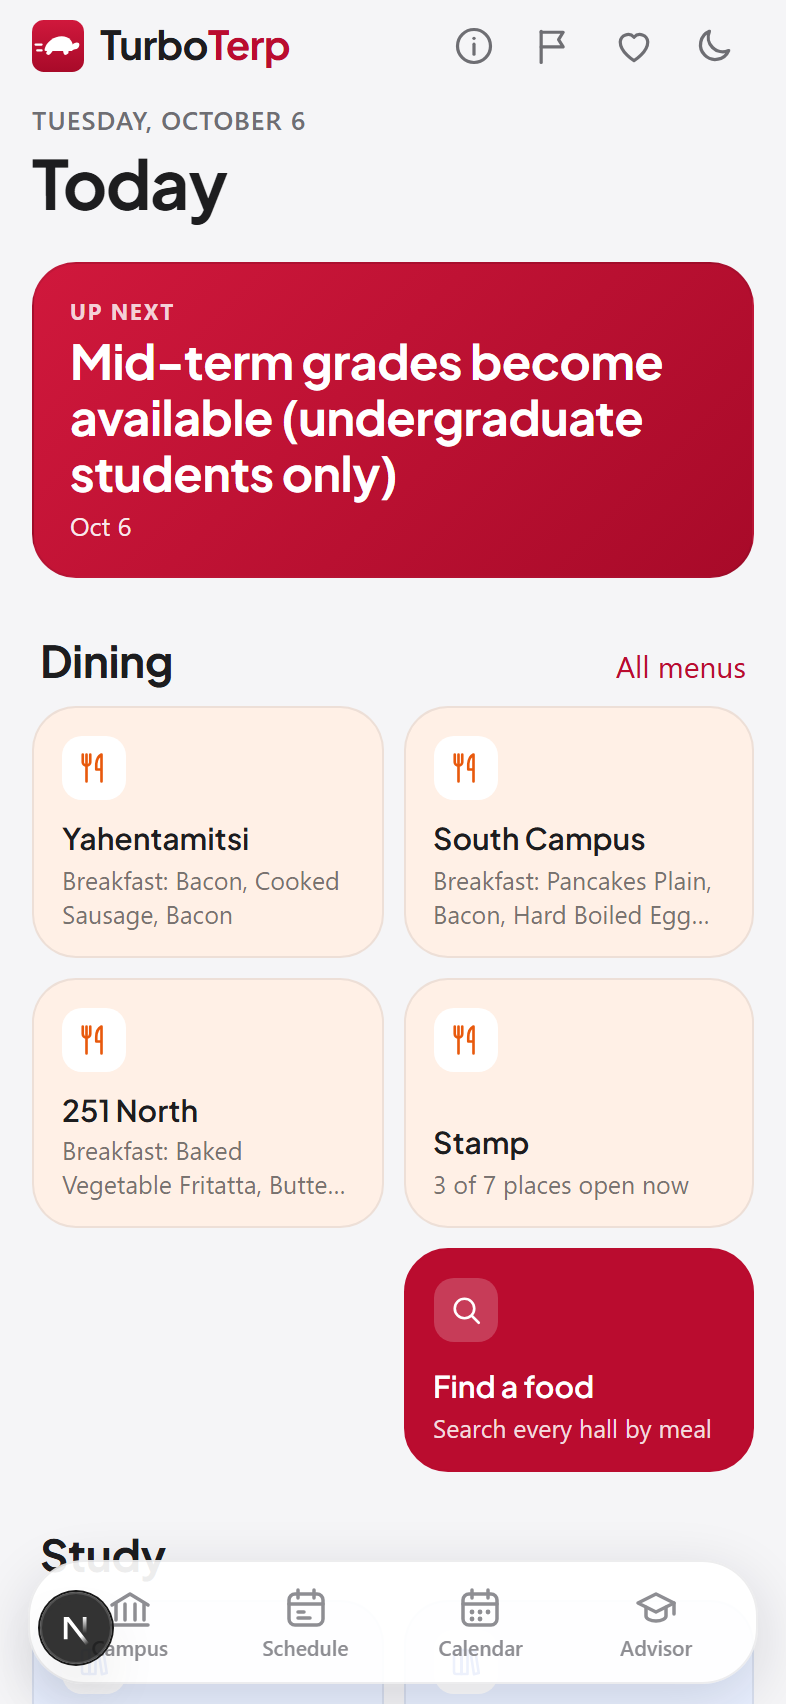
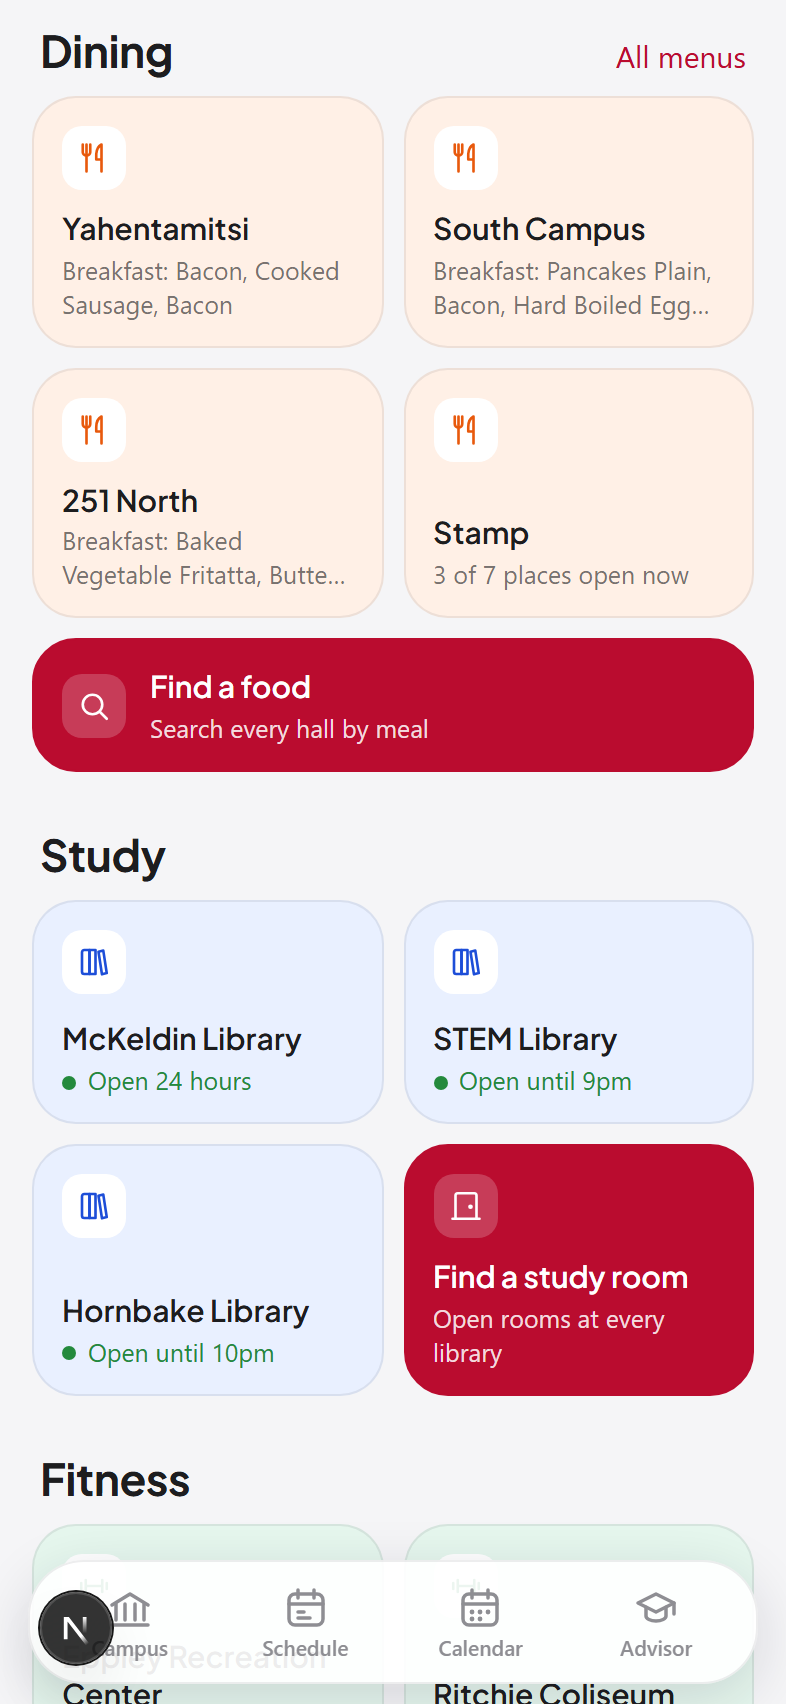
Today on phone: Find a food spans the row under the hall tiles instead of sitting alone (owner)

diff --git a/apps/web/components/ui.module.css b/apps/web/components/ui.module.css
@@ -298,6 +298,18 @@
   grid-column: -2 / -1;
 }
 
+/* Phone: an action tile that would sit alone on the last row spans it instead, as a wide row tile. */
+@media (max-width: 899px) {
+  .tileGrid > .tile[data-accent]:last-child:nth-child(odd):not(:only-child) {
+    grid-column: 1 / -1;
+    flex-direction: row;
+    align-items: center;
+    justify-content: flex-start;
+    gap: 12px;
+    min-height: 0;
+  }
+}
+
 @media (min-width: 900px) {
   .tileGrid[data-row] {
     grid-template-columns: none;

diff --git a/docs/project/rulings.md b/docs/project/rulings.md
@@ -114,4 +114,4 @@ Topics, in order: TDD and rebuild rules; CMSC141/142; CS gateway; schedule build
 - **More pre-professional tracks (owner, 2026-09-29):** add every pre-professional track that has actual fixed prerequisites (set by a national accreditor, licensing board or professional body), beyond the HPAO and pre-law ones. Tracks whose programs have few or no fixed prerequisites (MBA, MPH, MSW) are left out.
 - **Advisor checks stay small (owner, 2026-10-04):** a course that needs extra confirmation gets a small bold note under the class on the 4-year plan, not a list entry. Things every student knows (the 12-credit full-time rule) and declaration notes (major, double major, dual degree) are small extra tips, not cards. A plan is four years by default, including after a transcript import; semesters are added or removed by the student. No Checks column: a check shows in the term or class it relates to; "Must fix" items always use the red-bar row with the pill, everything else is smaller.
 - **UI rework rulings (owner, 2026-10-05; mock `docs/design/ui-rework/option-final.css`, screenshots `docs/screenshots/ui-rework/final-*.png`):** direction is B "Widgets" (tiles, red hero widget, pastel category fills on plan rows, floating pill tab bar) with B1 tinted tiles and B2 flat hairline borders (no tile shadows), S1 class blocks (solid fill, deeper 1.5px edge, soft shadow, white text). **Dining must not look brown:** light tiles are peach with a bright orange icon; in dark mode every tile is graphite with a solid colored icon chip (no tinted fills in dark). **Today dining tiles list actual foods** being served at the current meal (e.g. "Lunch: Orange chicken, Margherita pizza"), not station names. **"Search for a food"** field on Today's Dining section and at the top of the Dining page, searching the current day across all halls (uses the existing `searchMenus` endpoint). Desktop keeps the full labelled sidebar (Claude's assumption; B2's icon rail was shown and not chosen).
-- **Today sections are tile grids; actions are tiles that navigate (owner, 2026-10-06):** the Dining section follows Libraries: one tile per hall (name, then the main foods in small text inside the tile), then an accent **"Find a food"** tile as the last tile, bottom-right (`.tileGrid` puts a last accent tile in the last column), which opens the search screen `/campus/dining/search` (search, hall chips, meal chips), just as "Find a study room" opens Rooms. No inline tools or results on Today: the owner rejected an inline "Find a food" search block ("absolutely not").
+- **Today sections are tile grids; actions are tiles that navigate (owner, 2026-10-06):** the Dining section follows Libraries: one tile per hall (name, then the main foods in small text inside the tile), then an accent **"Find a food"** tile as the last tile: on desktop all five on one line (`TileGrid row`), Find a food last; on phone, where it would sit alone, it spans the last row as a wide tile (owner: "should be grouped with other boxes to look neat"), which opens the search screen `/campus/dining/search` (search, hall chips, meal chips), just as "Find a study room" opens Rooms. No inline tools or results on Today: the owner rejected an inline "Find a food" search block ("absolutely not").
